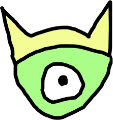
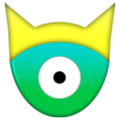
アイコンを更新

diff --git a/src/components/updates.vue b/src/components/updates.vue
@@ -1,6 +1,10 @@
 <template>
   <div class="overflow-auto px-2">
     <div>
+      <h3>2020-09-09</h3>
+      <p>アイコンを変更しました。</p>
+    </div>
+    <div>
       <h3>2020-08-20</h3>
       <p>ザルードに対応しました。</p>
     </div>
@@ -12,9 +16,7 @@
       <h3>2020-07-14</h3>
       <p>『ステータス計算機』に『鎧の孤島』のポケモンを対応させました。</p>
       <p>『素早さ計算機』のUIを変更しました。</p>
-      <p>
-        『素早さ計算機』の計算の順番が一部間違っていた不具合を修正しました。
-      </p>
+      <p>『素早さ計算機』の計算の順番が一部間違っていた不具合を修正しました。</p>
     </div>
     <div>
       <h3>2020-06-22</h3>
@@ -22,45 +24,29 @@
     </div>
     <div>
       <h3>2020-05-20</h3>
-      <p>
-        検索に引っかかるようにするため、『ステータス計算機』のタイトルを『ステータス計算機（ポケモン剣盾に対応）』に変更しました。
-      </p>
+      <p>検索に引っかかるようにするため、『ステータス計算機』のタイトルを『ステータス計算機（ポケモン剣盾に対応）』に変更しました。</p>
     </div>
     <div>
       <h3>2020-05-14</h3>
-      <p>
-        『ステータス計算機』をスマホから表示した際、横にスクロールできてしまう（画面の表示がズレてしまう）不具合を修正しました。
-      </p>
+      <p>『ステータス計算機』をスマホから表示した際、横にスクロールできてしまう（画面の表示がズレてしまう）不具合を修正しました。</p>
     </div>
     <div>
       <h3>2020-04-25</h3>
-      <p>
-        『ステータス計算機』の保存用エリアに、不要箇所のチェックを入れられるオプションを追加しました。
-      </p>
-      <p>
-        トップページをスマホから閲覧した際、「更新情報」が初期画面にあるとページのスクロールが難しくなってしまうため、「フォローする」を上に持ってくる形としました。
-      </p>
+      <p>『ステータス計算機』の保存用エリアに、不要箇所のチェックを入れられるオプションを追加しました。</p>
+      <p>トップページをスマホから閲覧した際、「更新情報」が初期画面にあるとページのスクロールが難しくなってしまうため、「フォローする」を上に持ってくる形としました。</p>
     </div>
     <div>
       <h3>2020-04-24</h3>
-      <p>
-        『ステータス計算機』で[保存する]のボタンを押した際に「とつげきチョッキ」や「しんかのきせき」にチェックを入れていたかどうかも出力するようにしました。
-      </p>
+      <p>『ステータス計算機』で[保存する]のボタンを押した際に「とつげきチョッキ」や「しんかのきせき」にチェックを入れていたかどうかも出力するようにしました。</p>
     </div>
     <div>
       <h3>2020-04-23</h3>
-      <p>
-        トップページのデザインが『利用規約』のデザインにも影響を及ぼしていた不具合を修正しました。
-      </p>
-      <p>
-        『ステータス計算機』をスマホで表示した際のレイアウトを少し変更しました。
-      </p>
+      <p>トップページのデザインが『利用規約』のデザインにも影響を及ぼしていた不具合を修正しました。</p>
+      <p>『ステータス計算機』をスマホで表示した際のレイアウトを少し変更しました。</p>
     </div>
     <div>
       <h3>2020-04-22</h3>
-      <p>
-        『ステータス計算機』におけるポケモン入力の候補選択を、キーボードの上下キーで移動できるようにしました。
-      </p>
+      <p>『ステータス計算機』におけるポケモン入力の候補選択を、キーボードの上下キーで移動できるようにしました。</p>
     </div>
     <div>
       <h3>2020-04-20</h3>
@@ -68,9 +54,7 @@
     </div>
     <div>
       <h3>2020-04-19</h3>
-      <p>
-        『ステータス計算機』において、進化先の存在しないポケモンであっても『しんかのきせき』にチェックを入れることができていた不具合を修正しました。
-      </p>
+      <p>『ステータス計算機』において、進化先の存在しないポケモンであっても『しんかのきせき』にチェックを入れることができていた不具合を修正しました。</p>
     </div>
     <div>
       <h3>2020-04-18</h3>
